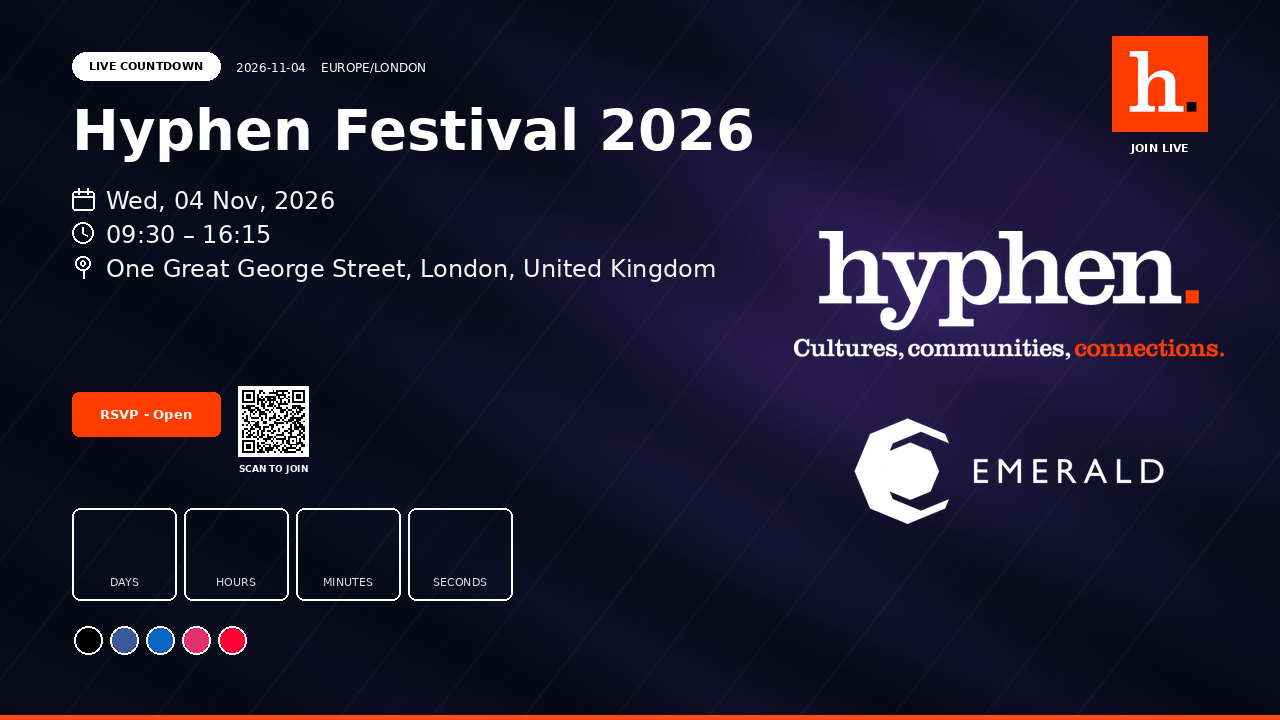
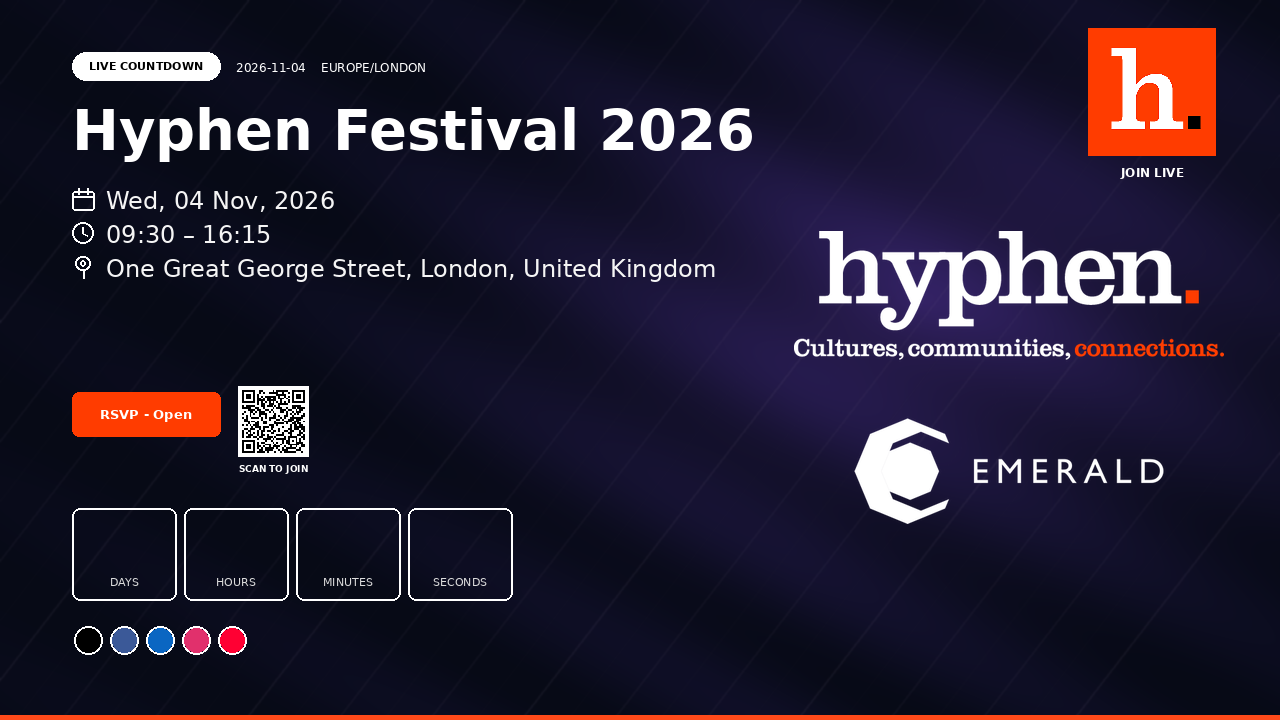
Enlarge the encoded Hyphen mark and darken the player buttons

Changed region(s): [[0.8438, 0.0306, 0.9688, 0.2444]]

diff --git a/components/encoded-preview.tsx b/components/encoded-preview.tsx
@@ -136,13 +136,13 @@ export function EncodedPreview({
       </div>
       <div className="space-y-4 p-5">
         <div className="flex flex-wrap gap-2">
-          <Button className="rounded-full bg-black text-white" disabled={busy || status.running || !valid || !status.ffmpeg} onClick={() => void start(false)}>
+          <Button className="rounded-full bg-black text-white hover:bg-black" style={{ backgroundColor: "#111", color: "#fff" }} disabled={busy || status.running || !valid || !status.ffmpeg} onClick={() => void start(false)}>
             Play encoded slate
           </Button>
-          <Button variant="outline" className="rounded-full" disabled={busy || !status.running} onClick={() => void start(true)}>
+          <Button variant="outline" className="rounded-full border-black bg-white text-black" style={{ backgroundColor: "#fff", color: "#111" }} disabled={busy || !status.running} onClick={() => void start(true)}>
             Restart slate
           </Button>
-          <Button variant="outline" className="rounded-full" disabled={busy || !status.running} onClick={() => void stop()}>
+          <Button variant="outline" className="rounded-full border-black bg-white text-black" style={{ backgroundColor: "#fff", color: "#111" }} disabled={busy || !status.running} onClick={() => void stop()}>
             Stop player
           </Button>
         </div>

diff --git a/scripts/generate-slate.py b/scripts/generate-slate.py
@@ -196,10 +196,10 @@ def make_slate(bg: Image.Image, logo: Image.Image, qr: Image.Image) -> Image.Ima
     img.paste(logo_fit, (lx, ly), logo_fit)
 
     # The top-right mark is the orange Hyphen h, not a rolling QR. The encode cannot animate.
-    mark = Image.open(ASSETS / "hyphen-mark.png").convert("RGBA").resize((96, 96), Image.Resampling.LANCZOS)
-    img.paste(mark, (W - 72 - 96, 36), mark)
-    join = ImageFont.truetype(str(BOLD), 11)
-    draw.text((W - 72 - 48, 36 + 96 + 16), "JOIN LIVE", font=join, fill=(255, 255, 255, 230), anchor="mm")
+    mark = Image.open(ASSETS / "hyphen-mark.png").convert("RGBA").resize((128, 128), Image.Resampling.NEAREST)
+    img.paste(mark, (W - 64 - 128, 28), mark)
+    join = ImageFont.truetype(str(BOLD), 12)
+    draw.text((W - 64 - 64, 28 + 128 + 16), "JOIN LIVE", font=join, fill=(255, 255, 255, 255), anchor="mm")
     return img
 
 
